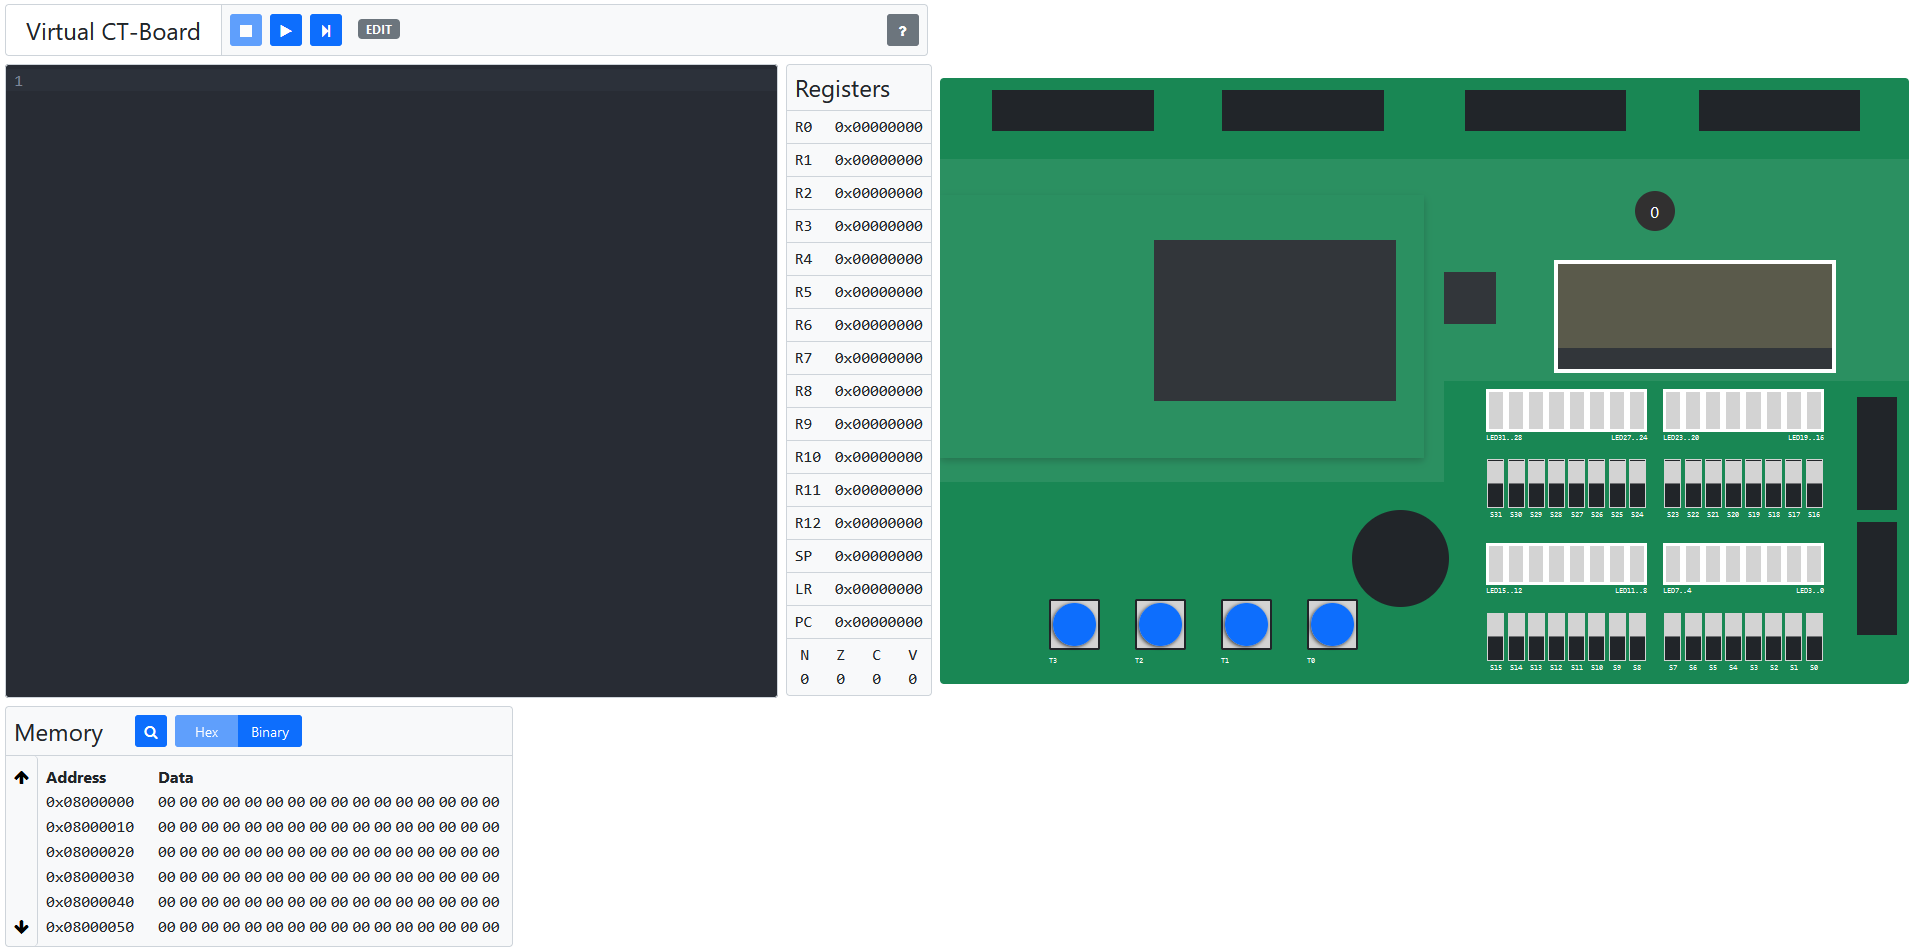
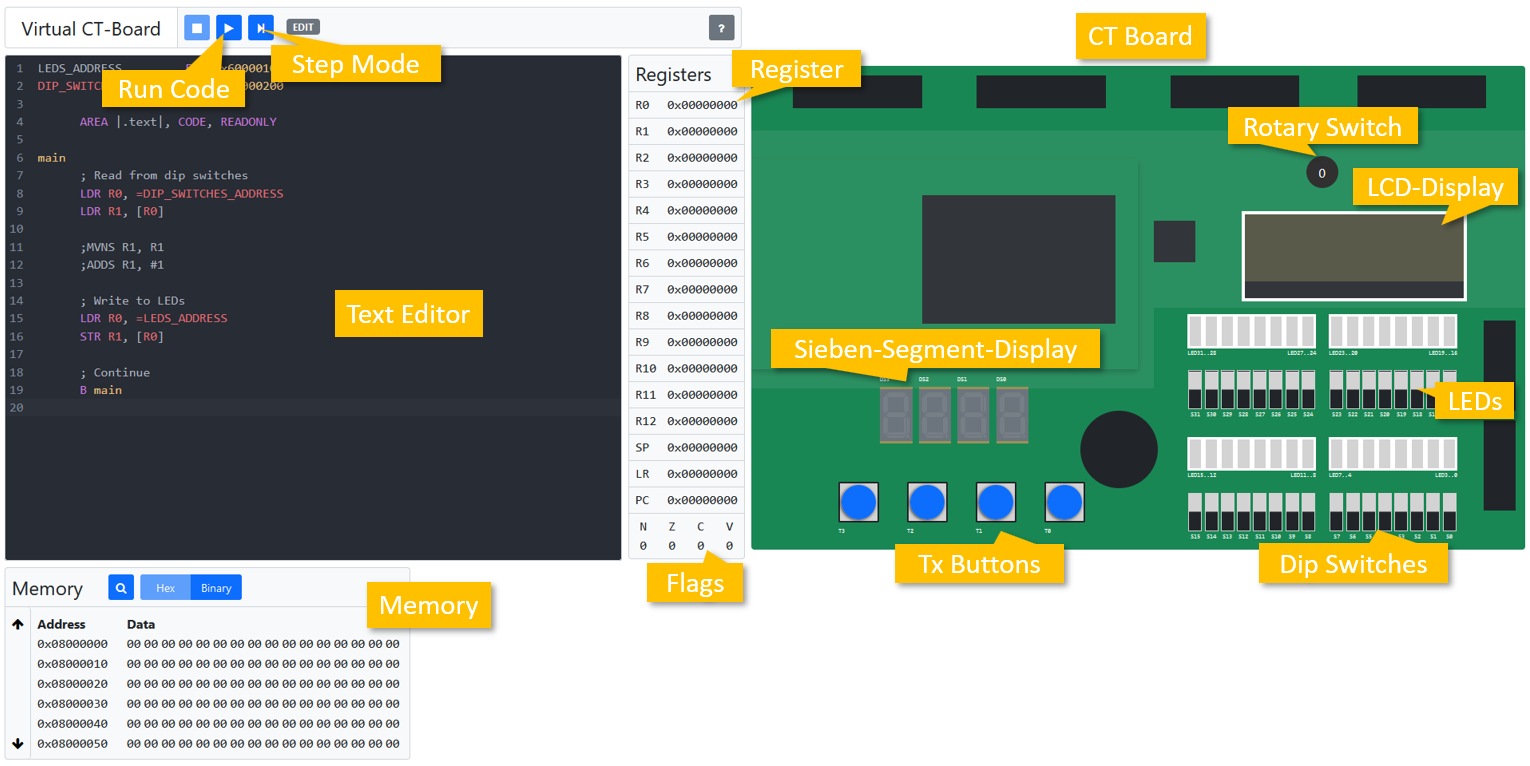
some more corrections and update final ui

diff --git a/docs/Fachartikel/Fachartikel.tex b/docs/Fachartikel/Fachartikel.tex
@@ -47,7 +47,7 @@
 % Ergebnis
 
 Ein fester Bestandteil des Informatikstudiums an der ZHAW ist das Modul \glqq Computertechnik 1\grqq, in dem die Studierenden das hardwarenahe Programmieren erlernen. Dafür wird ihnen ein physisches Microcontroller-Board zur Verfügung gestellt, das für die Durchführung der zum Modul gehörigen Praktika notwendig ist. Das Projekt \glqq Virtual CT Board\grqq{} strebt die Virtualisierung dieses physischen Boards an, um den Studierenden eine handliche, digitale Version davon zur Verfügung zu stellen. Dazu wurde eine Software gebaut, die als Web-Applikation funktioniert und in einem Browser verwendbar ist. Das Projekt hatte zum Ziel, so viele Funktionen des physischen CT Boards umzusetzen, wie während der festgesetzten Projektdauer möglich wären, wobei im Zwei-Wochen-Rhythmus Reviews und Plannings gemäss der agilen SCRUM-Methode abgehalten wurden. Nachdem die Grundarchitektur erstellt war, wurden darauf aufbauend die einzelnen Funktionen des Boards und des dazugehörigen Code-Editors umgesetzt. Im Zentrum standen dabei die Lauffähigkeit von Assembly-Code und die diversen Input-/Output-Möglichkeiten des Boards.
-\newline Das vorliegend umgesetzte \glqq Virtual CT Board\grqq{} ist ein Prototyp, der noch der einen oder anderen Ergänzung bedarf, bevor er das physische CT Board vollständig ersetzen kann. Der Grundstein ist jedoch gelegt: X der 14 CT1-Praktika können bereits mit dem \glqq Virtual CT Board\grqq{} durchgeführt werden. 
+\newline Das vorliegend umgesetzte \glqq Virtual CT Board\grqq{} ist ein Prototyp, der noch der einen oder anderen Ergänzung bedarf, bevor er das physische CT Board vollständig ersetzen kann. Der Grundstein ist jedoch gelegt: Die Hälfte der 12 CT1-Praktika können bereits mit dem \glqq Virtual CT Board\grqq{} durchgeführt werden. 
 
 
 \newpage
@@ -88,12 +88,12 @@ Zwei Zielgruppen werden als Kundschaft anvisiert, nämlich die Informatikstudier
 \begin{itemize}
 \item[$-$] Die Studierenden des CT1-Moduls haben eine elegante Alternative zu den physischen CT Boards und müssen jene nicht mehr nach Hause tragen und für ihre Erhaltung besorgt sein.
 \item[$-$] Im Gegensatz zum bisherigen physischen CT Board benötigt das \glqq Virtual CT Board\grqq{} keinen direkten Stromanschluss und lässt sich daher überall - also beispielsweise auch unterwegs - direkt auf dem Laptop starten.
-\item[$-$] Alle Praktika des CT1-Moduls lassen sich mit dem \glqq Virtual CT Board\grqq{} umsetzen.
+\item[$-$] Viele Praktika des CT1-Moduls lassen sich mit dem \glqq Virtual CT Board\grqq{} umsetzen.
 \end{itemize}
 
 \paragraph{Für die ZHAW:}
 \begin{itemize}
-\item[$-$] Die Lizenz für die vorliegend entwickelte Software ist um einiges preiswerter als die Beschaffung physischer CT Boards. Ausserdem müssen alte oder defekte Geräte nicht mehr ausgetauscht oder repariert werden.
+\item[$-$] Die vorliegend entwickelte Software ist ein Open-Source-Projekt, weshalb der ZHAW keine Kosten für ihren Erwerb entstehen, im Gegensatz zur Beschaffung physischer CT Boards. Ausserdem müssen alte oder defekte Geräte nicht mehr ausgetauscht oder repariert werden.
 \item[$-$] Die Dozierenden müssen für die Praktika nicht mehr mühsam Keil-Projekte konfigurieren. Es genügt, die Assembler-Files ins \glqq Virtual CT Board\grqq{} hochzuladen.
 \end{itemize}
 
@@ -102,7 +102,7 @@ Zwei Zielgruppen werden als Kundschaft anvisiert, nämlich die Informatikstudier
 Es existieren bereits verschiedene Produkte, die den Studenten des CT1-Moduls beim Erlernen ihrer Fertigkeiten behilflich sein können.
 
 \paragraph{Virtuelle Emulatoren}
-Der Emulator VisUAL von Salman Arif (2015) soll hier stellvertretend für andere virtuelle Emulatoren für die Assembly-Programmiersprache vorgestellt werden. Er wurde ebenfalls für ein Einführungsmodul in die Computerarchitektur entwickelt, allerdings am Imperial College in London. Die Software ermöglicht das Schreiben von Assembly-Code in einem Editor-Fenster, der dann via Button ausgeführt wird und dessen Auswirkungen auf die Register und Flags rechts davon angezeigt werden (siehe Abbildung \ref{emulator}).
+Der Emulator VisUAL von Salman Arif (2015) soll hier stellvertretend für andere virtuelle Emulatoren für die Assembly-Program-miersprache vorgestellt werden. Er wurde ebenfalls für ein Einführungsmodul in die Computerarchitektur entwickelt, allerdings am Imperial College in London. Die Software ermöglicht das Schreiben von Assembly-Code in einem Editor-Fenster, der dann via Button ausgeführt wird und dessen Auswirkungen auf die Register und Flags rechts davon angezeigt werden (siehe Abbildung \ref{emulator}).
 \begin{figure}[h]
 \includegraphics[width=\textwidth]{visual_emulator}
 \caption{Der Emulator VisUAL samt seiner grafischen Oberfläche (Arif 2015).}
@@ -126,7 +126,7 @@ Trotz ausführlicher und sorgfältiger technischer Analyse des Funktionsumfangs 
 
 \section{Resultate}
 
-Das Projekt wurde in der Programmiersprache TypeScript als Web-Applikation umgesetzt. Das \glqq Virtual CT Board\grqq{} ist somit in einem Browser darstell- und benutzbar. Auf der linken Seite befindet sich der Texteditor für die Eingabe des Assembly-Codes, auf der rechten Seite die leicht schematisierte Abbildung des CT Boards mit den bedienbaren Input-Switches und den synchronen Output-Anzeigen. Auch die Register- und Memory-Inhalte werden in eigenen Containern abgebildet, wobei das Memory durchsucht und schrittweise durchgeklickt werden kann. In der Abbildung \ref{final} ist die Grafikoberfläche unseres Endprodukts ersichtlich. Im Nachfolgenden werden die in der virtualisierten Variante umgesetzten Funktionen des physischen CT Boards erläutert.
+Das Projekt wurde in der Programmiersprache TypeScript als Web-Applikation umgesetzt. Das \glqq Virtual CT Board\grqq{} ist somit in einem Browser darstell- und benutzbar. Auf der linken Seite befindet sich der Texteditor für die Eingabe des Assembly-Codes, auf der rechten Seite die leicht schematisierte Abbildung des CT Boards mit den bedienbaren Input-Switches und den synchronen Output-Anzeigen. Auch die Register- und Memory-Inhalte werden in eigenen Containern abgebildet, wobei das Memory durchsucht und schrittweise durchgeklickt werden kann. In der Abbildung \ref{final} ist die Grafikoberfläche unseres Endprodukts ersichtlich. Um die Orientierung zu erleichtern, wurden die verschiedenen Bestandteile des User Interface beschriftet. Im Nachfolgenden werden dann die in der virtualisierten Variante umgesetzten Funktionen des physischen CT Boards genauer erläutert.
 
 \begin{figure}[h]
 \includegraphics[width=\textwidth]{final}
@@ -138,11 +138,11 @@ Das Projekt wurde in der Programmiersprache TypeScript als Web-Applikation umges
 
 Der Ansatz des Entwicklungsteams bestand darin, die Komponenten des CT Boards gemäss der vermittelten Inhalte der CT1-Vorlesung so simpel wie möglich und so genau wie nötig nachzubauen.
 
-\paragraph{Prozessor} Wie auch das physische CT Board verfügt das virtuelle Board über einen Prozessor samt \emph{Arithmetic Logic Unit} und Registern. Dieser bildet das Kernstück der Anwendung, denn dort finden die Ausführung des Programmcodes und die Berechnungen statt. 
+\paragraph{Prozessor} Wie auch das physische CT Board verfügt das virtuelle Board über einen Prozessor samt \emph{Arithmetic Logic Unit} und Registern. Dieser bildet das Kernstück der Anwendung, denn dort finden die Ausführung des Programmcodes und die Berechnungen statt. Die Register samt Flags werden auf dem \glqq Virtual CT Board\grqq{} angezeigt (siehe Abbildung \ref{final}).
 
-\paragraph{Memory} Im Memory werden sämtliche Daten abgelegt: Dazu gehören die Programm-Instruktionen in Form von Maschinencode sowie die Daten, die durch die Inputfunktionen des Boards hereinkommen.
+\paragraph{Memory} Im Memory werden sämtliche Daten abgelegt: Dazu gehören die Programm-Instruktionen in Form von Maschinencode sowie die Daten, die durch die Inputfunktionen des Boards hereinkommen. Auch das Memory ist Teil des User Interface (siehe Abbildung \ref{final}).
 
-\paragraph{Input/Output} Folgende Komponenten stellen Input-Funktionen bereit: Die DIP-Schalter und die Tx-Buttons als binäre On-/Off-Schalter und der Rotary-Schalter, der kreisum gedreht werden kann. Als Output-Komponenten stehen die LED-Lämpchen, das Sieben-Segment-Display für die Darstellung vierstelliger Hex-Zahlen und das LCD-Display für Text- und Farbanzeige zur Verfügung.
+\paragraph{Input/Output} Folgende Komponenten stellen Input-Funktionen bereit: Die DIP-Schalter und die Tx-Buttons als binäre On-/Off-Schalter und der Rotary-Schalter, der kreisum gedreht werden kann. Als Output-Komponenten stehen die LED-Lämpchen, das Sieben-Segment-Display für die Darstellung vierstelliger Hex-Zahlen und das LCD-Display für Text- und Farbanzeige zur Verfügung. Die Lage dieser Komponenten auf dem \glqq Virtual CT Board\grqq{} ist in der Abbildung \ref{final} dargestellt.
 
 \paragraph{Assembler-Befehle} Alle für die CT1-Praktika relevanten Instruktionen der Assembler-Sprache wurden umgesetzt und sind im \glqq Virtual CT Board\grqq{} verwendbar. Dazu gehören:
 \begin{itemize}
@@ -150,7 +150,7 @@ Der Ansatz des Entwicklungsteams bestand darin, die Komponenten des CT Boards ge
 	\item[$-$] arithmetische Operationen: \emph{Add}, \emph{Subtract} und \emph{Multiply}
 	\item[$-$] \emph{Logical} und \emph{Shift/rotate} Operationen
 	\item[$-$] Vergleichsoperationen: \emph{Compare} und \emph{Test}
-	\item[$-$] Stack-Operationen: \emph{Push} und \emph{Pop} %%% Wurden diese tatsächlich noch umgesetzt?
+	\item[$-$] Stack-Operationen: \emph{Push} und \emph{Pop}
 	\item[$-$] Kontrollstrukturen: \emph{Conditional} und \emph{Unconditional branches}
 \end{itemize}
 
@@ -158,9 +158,7 @@ Der Ansatz des Entwicklungsteams bestand darin, die Komponenten des CT Boards ge
 
 \subsection{Ausführbare Praktika}
 
-%%% Welche Praktika sind ausführbar? Sind überhaupt welche ausführbar?
-
-Die manuellen Tests haben ergeben, dass von den insgesamt 11 Praktika xx ausführbar sind. Die Tabelle \ref{praktika} gibt einen Überblick über den Lauffähigkeitsstatus der Praktika und listet bei jenen, die noch nicht ausführbar sind, die fehlenden Funktionen auf.
+Die manuellen Tests haben ergeben, dass von den insgesamt 12 Praktika 6 ausführbar sind. Die Tabelle \ref{praktika} gibt einen Überblick über den Lauffähigkeitsstatus der Praktika und listet bei jenen, die noch nicht ausführbar sind, die fehlenden Funktionen auf.
 
 \rowcolors{2}{gray!10}{gray!40}
 \begin{table}[ht]
@@ -172,35 +170,39 @@ Die manuellen Tests haben ergeben, dass von den insgesamt 11 Praktika xx ausfüh
 	\hline
     2 Bit Manipulations & Nein & C Code \\
 \hline
-    3 Introduction to Assembly & ??? & - \\
+    3 Introduction to Assembly & Ja* & - \\
 \hline
-    4 Data Transfer Commands & ??? & - \\
+    4 Data Transfer Commands & Ja & - \\
 \hline
-    5 Arithmetic Operations & ??? & - \\
+    5 Arithmetic Operations & Ja & - \\
 \hline
-    6 Control Structure & ??? & - \\
+    6 ALU and Branch Instructions & Ja & - \\
 \hline
-    7 Structured Programming in Assembly & ??? & - \\
+    7 Control Structures & Ja & - \\
 \hline
-    8 Subroutines and Parameter Passing & Nein & Potentiometer \\
+    8 Structured Programming in Assembly & Ja & - \\
 \hline
-    9 Linker & Nein & C Code \\
+    9 Subroutines and Parameter Passing & Nein & Potentiometer \\
 \hline
-    10 Multiplication & ??? & - \\
+    10 Multiplication & Nein** & Linker \\
 \hline
-    11 Interrupt & Nein & Interrupts \\
+    11 Modular Coding and Linking & Nein & C Code \\
+\hline
+    12 Interrupt & Nein & Interrupts \\
 \hline
 \end{tabular}
+* Vorgegebener Code muss leicht angepasst werden.
+\newline** Wäre nach einigen Anpassungen am Programmrahmen ebenfalls lauffähig.
 \caption[size=8pt]{Lauffähigkeitsstatus aller Praktika des CT1-Moduls auf dem virtuellen CT Board.}
 \label{praktika}
 \end{table}
 
 \section{Diskussion und Ausblick}
 
-Die aktuelle Version der Software ermöglicht es, einige der Praktika des CT1-Moduls virtuell durchzuführen. Damit ist der Grundstein für die Ersetzung der physischen CT Boards gelegt. Die Studierenden können nach und nach auf das \glqq Virtual CT Board\grqq{} umsteigen - wenn auch noch nicht vollständig. Bis alle Praktika von CT1 auf dem \glqq Virtual CT Board\grqq{} lauffähig sind, könnten im CT1-Unterricht die physischen Boards neben dem virtuellen eingesetzt und damit die bestehenden Ressourcen ideal ausgeschöpft werden. Falls die ZHAW Interesse daran hat, das \glqq Virtual CT Board\grqq{} weiter zu entwickeln und auch finanziell zu unterstützen, bietet sich die Umsetzung folgender Punkte an, für die die aufgewendete Zeit im Rahmen des PM4-Moduls nicht ausgereicht hat:
+Die aktuelle Version der Software ermöglicht es, einige der Praktika des CT1-Moduls virtuell durchzuführen. Damit ist der Grundstein für die Ersetzung der physischen CT Boards gelegt. Die Studierenden können nach und nach auf das \glqq Virtual CT Board\grqq{} umsteigen - wenn auch noch nicht vollständig. Bis alle Praktika von CT1 auf dem \glqq Virtual CT Board\grqq{} lauffähig sind, könnten im CT1-Unterricht die physischen Boards neben dem virtuellen eingesetzt und damit die bestehenden Ressourcen ideal ausgeschöpft werden. Falls die ZHAW Interesse daran hat, das \glqq Virtual CT Board\grqq{} weiter zu entwickeln und auch finanziell zu unterstützen, bietet sich die Umsetzung folgender Punkte an, für die die aufgewendete Zeit im Rahmen des PM4-Moduls nicht ausgereicht hat (siehe hierzu auch Tabelle \ref{praktika}):
 
 \begin{itemize}
-	\item[$-$] Einige Assembler-Funktionen und Befehle wurden noch nicht umgesetzt, insbesondere die Interrupts, die in späteren CT1-Praktika behandelt werden, aber auch kleinere Befehle wie die \emph{Extend-} und \emph{Reverse-}Operationen. Siehe hierzu Tabelle \ref{praktika}.
+	\item[$-$] Einige Assembler-Funktionen wurden noch nicht umgesetzt, insbesondere die Interrupts, die im Praktikum 12 behandelt werden, aber auch kleinere Befehle wie die \emph{Extend-} und \emph{Reverse-}Operationen.
 	\item[$-$] Für die ersten beiden Praktika sowie Praktikum 9 müsste auch C-Code interpretier- und ausführbar sein.
 	\item[$-$] Um auch komplexere Praktika durchführbar zu machen, muss der Text Editor mehrere Assembler-Files laden, anzeigen und ausführen können. Dazu müsste ein Linker implementiert werden.
 	\item[$-$] Für das Praktikum 9 wäre die Implementation des Potentiometers vonnöten.
@@ -218,6 +220,7 @@ Sollte die ZHAW zudem eine Erweiterung der Software anstreben, könnten zukünft
 \item[$-$] Implementierung einer virtuellen Darstellung von Signalen auf einem Oszilloskop.
 \end{itemize}
 
+\newpage
 \section{Literaturverzeichnis}
 
 \begin{itemize}
